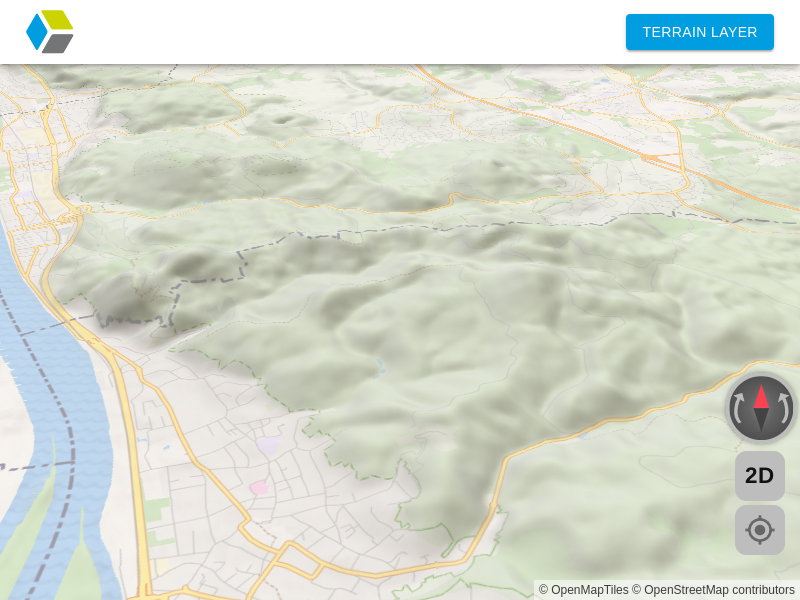
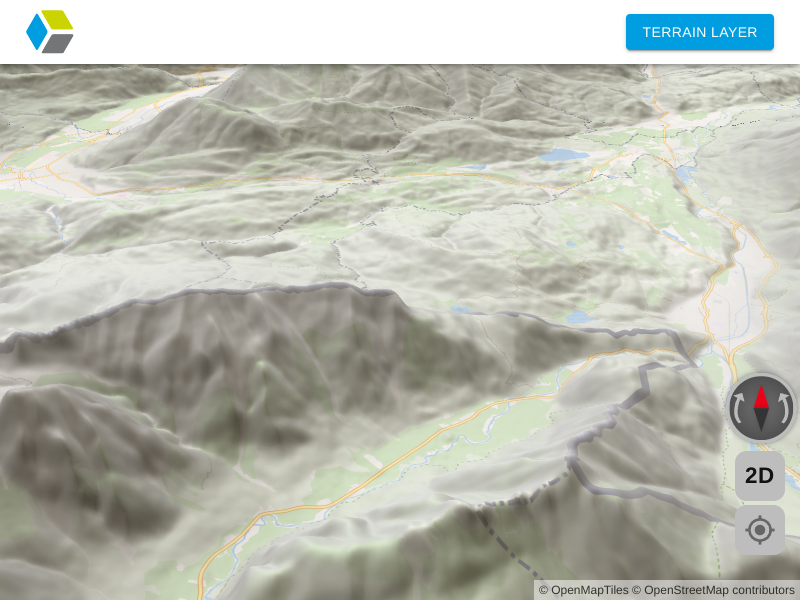
add new startPosition, add new thumbnail

diff --git a/src/components/MlTerrainLayer/MlTerrainLayer.stories.tsx b/src/components/MlTerrainLayer/MlTerrainLayer.stories.tsx
@@ -1,8 +1,9 @@
-import React, { useState } from 'react';
+import React, { useEffect, useState } from 'react';
 import MlTerrainLayer from './MlTerrainLayer';
 import MapContextDecorator from '../../decorators/MapContextDecorator';
 import TopToolbar from '../../ui_components/TopToolbar';
 import { Button } from '@mui/material';
+import useMap from '../../hooks/useMap';
 
 const storyoptions = {
 	title: 'MapComponents/MlTerrainLayer',
@@ -14,6 +15,14 @@ export default storyoptions;
 
 const Template = () => {
 	const [start, setStart] = useState<boolean>(true);
+
+	const mapHook = useMap({ mapId: 'map_1' });
+	useEffect(() => {
+		if (!mapHook.map) return;
+		mapHook.map.map.setCenter([11.200688, 47.427417]);
+		mapHook.map.map.setZoom(12);
+		mapHook.map.map.setPitch(60);
+	}, [mapHook.map]);
 
 	return (
 		<>
